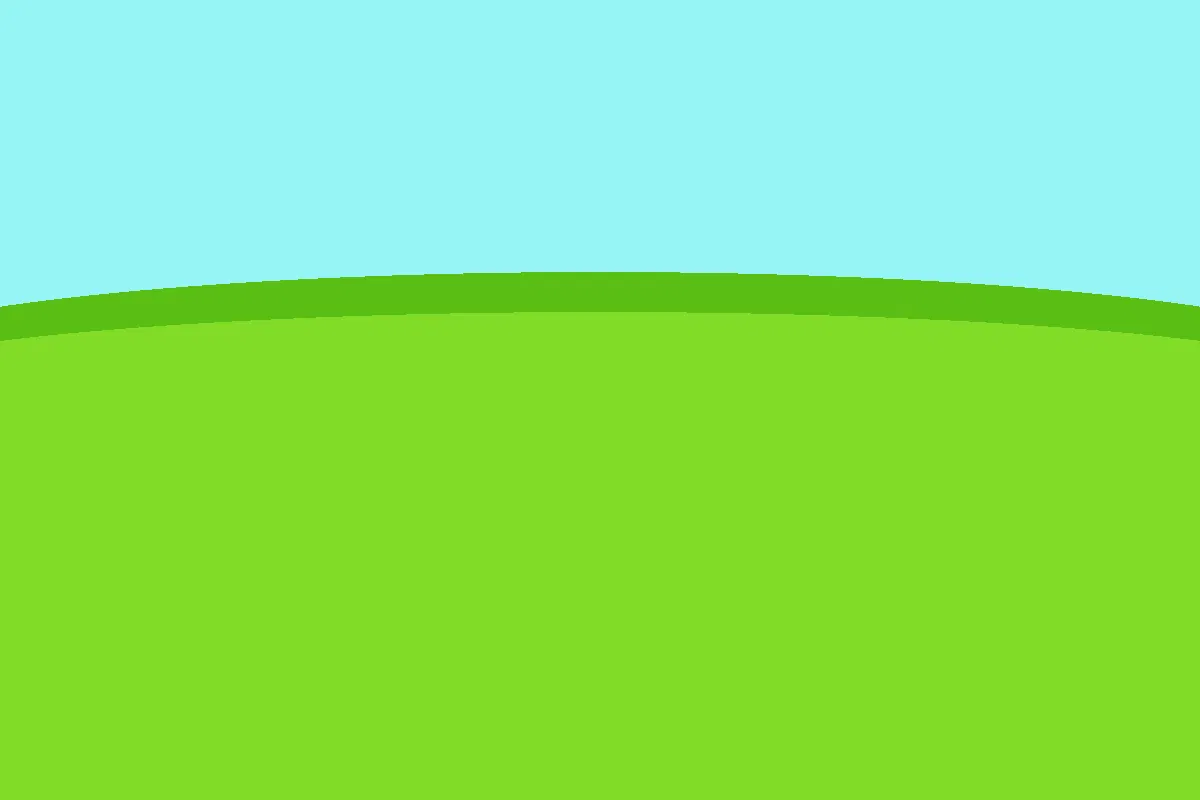
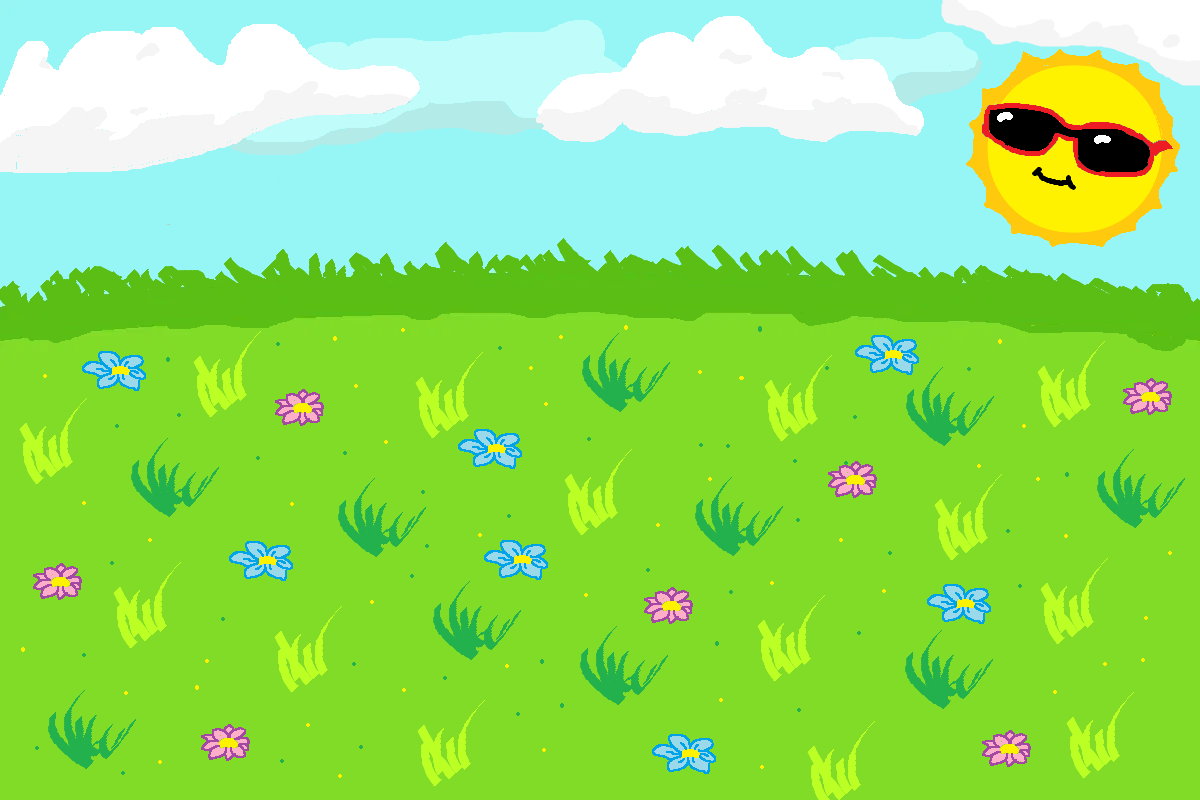
added background

diff --git a/playingscreen.java b/playingscreen.java
@@ -14,12 +14,9 @@ public class playingscreen extends JPanel {
 
     private BufferedImage background;
 
-    private static final int GRID_ROWS = 4;
-    private static final int GRID_COLS = 6;
-
     private final JLabel scoreLabel;
     private final JLabel timeLabel;
-    private final moles[] moles = new moles[GRID_ROWS * GRID_COLS];
+    private final moles[] moles = new moles[GameConfig.gridRows * GameConfig.gridCols];
     private final Random random = new Random();
 
     private int score = 0;
@@ -134,8 +131,8 @@ public class playingscreen extends JPanel {
         int moleSize = GameConfig.moleSize;  // use the constant from GameConfig
 
 
-        int maxOffsetX = GameConfig.scale(10);
-        int maxOffsetY = GameConfig.scale(3);
+        int maxOffsetX = Math.max(0, Math.min(GameConfig.scale(10), (cellWidth - moleSize) / 2));
+        int maxOffsetY = Math.max(0, Math.min(GameConfig.scale(5), (cellHeight - moleSize) / 2));
 
         int index = 0;
         for (int row = 0; row < GameConfig.gridRows; row++) {
@@ -150,7 +147,7 @@ public class playingscreen extends JPanel {
                 mole.setBounds(x, y, moleSize, moleSize);
 
                 moles[index++] = mole;
-                playArea.add(mole);
+                playArea.add(mole, Integer.valueOf(row));
             }
         }
     }
@@ -183,11 +180,12 @@ public class playingscreen extends JPanel {
         // simple approach: try a handful of random picks before giving up this tick
         for (int attempt = 0; attempt < moles.length; attempt++) {
             moles candidate = moles[random.nextInt(moles.length)];
-            if (!candidate.isUp()) {
+            if (candidate != null && candidate.isHidden()) {
                 return candidate;
             }
         }
-        return null; // all moles happened to be up already this tick
+        return null;
+
     }
 
     /** Counts down the game clock and ends the game at zero. */

diff --git a/GameConfig.java b/GameConfig.java
@@ -12,12 +12,12 @@ public class GameConfig {
     public static float scale(float px) { return (float) (px * factor); }
 
     public static final int gridRows = 4;
-    public static final int gridCols = 6;
+    public static final int gridCols = 4;
 
-    public static final int areaWidth = scale(1000); // Width of the play area
-    public static final int areaHeight = scale(500); // Height of the play area
+    public static final int areaWidth = scale(850); // Width of the play area
+    public static final int areaHeight = scale(600); // Height of the play area
 
-    public static final int moleSize = scale(130);
+    public static final int moleSize = scale(170);
     public static final int cursorSize = scale(75);    // hammer cursor size in pixels
     public static final int setBoundDiffX = 550; // sets the x bound for the difficulty buttons on the start screen
 
